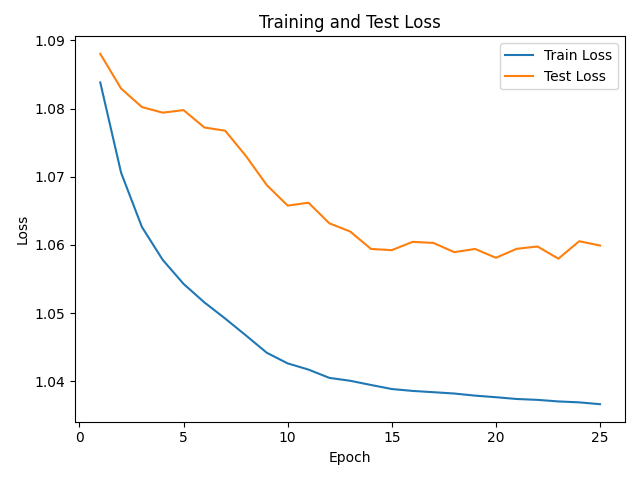
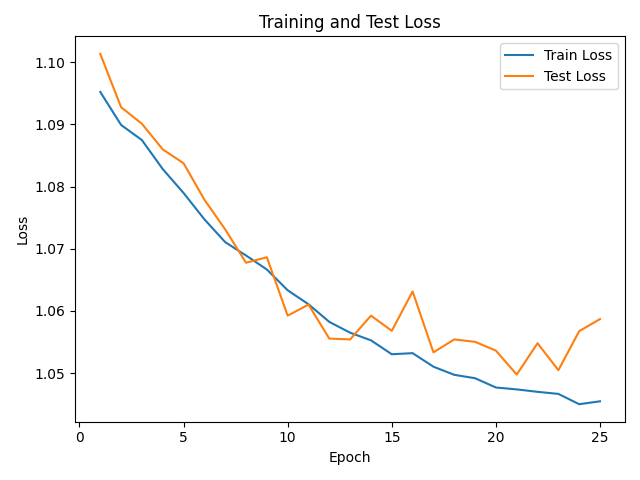
VQC V5
Final Train Accuracy: 0.4806
Final Test Accuracy: 0.4667

diff --git a/QML/vqc.py b/QML/vqc.py
@@ -22,8 +22,8 @@ EPOCHS = 25
 BATCH_SIZE = 16
 LEARNING_RATE = 0.01
 
-MODEL_SAVE_PATH = "vqc_900_pca4_multiclass_v4.joblib"
-HISTORY_SAVE_PATH = "vqc_900_pca4_multiclass_v4_history.joblib"
+MODEL_SAVE_PATH = "vqc_900_pca4_multiclass_v5.joblib"
+HISTORY_SAVE_PATH = "vqc_900_pca4_multiclass_v5_history.joblib"
 
 LABEL_NAMES = {
     0: "normal",
@@ -64,25 +64,29 @@ print("Test label distribution:", dict(zip(*np.unique(y_test, return_counts=True
 
 dev = qml.device("default.qubit", wires=N_QUBITS)
 
-def variational_layer(weights):
+def variational_layer(weights, x):
+    # re-upload with per-layer learnable scale (weights[:, 2])
+    for i in range(N_QUBITS):
+        qml.RY(weights[i, 2] * x[i], wires=i)
+        qml.RZ(weights[i, 2] * x[(i + 1) % len(x)], wires=i)
+
+    # trainable rotations
     for i in range(N_QUBITS):
         qml.RY(weights[i, 0], wires=i)
         qml.RZ(weights[i, 1], wires=i)
 
-    for i in range(N_QUBITS):
-        qml.CNOT(wires=[i, (i + 1) % N_QUBITS])
+    # brick-layer entanglement
+    for i in range(0, N_QUBITS - 1, 2):
+        qml.CNOT(wires=[i, i + 1])
+    for i in range(1, N_QUBITS - 1, 2):
+        qml.CNOT(wires=[i, i + 1])
 
 @qml.qnode(dev, interface="autograd")
 def circuit(x, weights):
     for layer in range(N_LAYERS):
-
-        for i in range(N_QUBITS):
-            qml.RY(x[i], wires=i)
-            qml.RZ(x[(i+1) % len(x)], wires=i)
-
-        variational_layer(weights[layer])
-
+        variational_layer(weights[layer], x)
     return [qml.expval(qml.PauliZ(i)) for i in range(N_QUBITS)]
+
 
 def softmax(logits):
     logits = pnp.array(logits)
